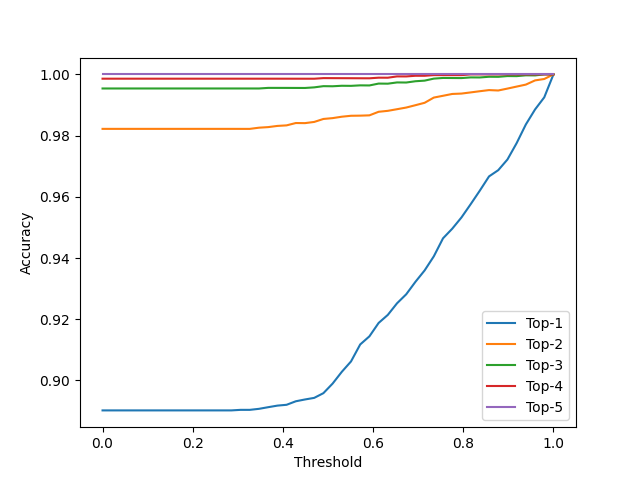
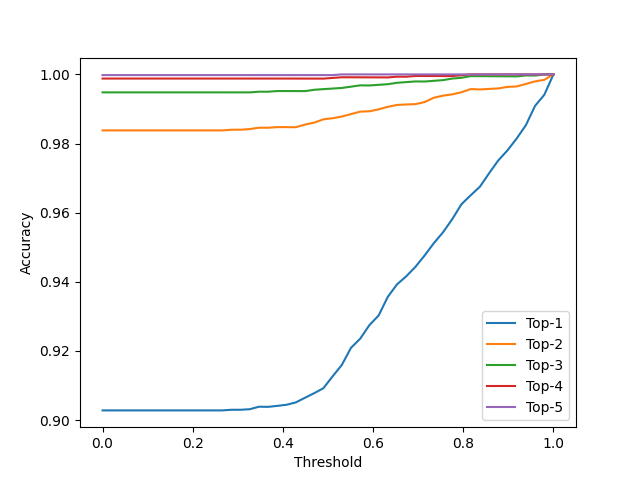
Split cifar data into known and unkown to make new train/test split

diff --git a/cifar.py b/cifar.py
@@ -22,16 +22,13 @@ np_config.enable_numpy_behavior()
 
 
 
-
-
-
 # Get CIFAR-100 dataset
 '''
 Train: 50000 samples
     labels: 0-99
     500 samples per label
 Test: 10000 samples
-    labels: 0-9
+    labels: 0-99
     around 100 samples per label
 
 Each image is 32x32 in color
@@ -42,16 +39,38 @@ train_x, train_y, test_x, test_y = load_keras_dataset(keras.datasets.cifar100)
 
 
 
-# # Pre-process MNIST dataset
-# '''
-# make grayscale
-# '''
-# train_x = train_x / 255.0
-# test_x = test_x / 255.0
 
 
 
+# Leave out half (50) of the classes during training. Classes 50-99 are designated as "unkown"
+known_x, known_y = [], []
+unknown_x, unknown_y = [], []
+for i in range(train_x.shape[0]):
+    if train_y[i] >= 50:
+        unknown_x.append(train_x[i])
+        unknown_y.append(train_y[i])
+    else:
+        known_x.append(train_x[i])
+        known_y.append(train_y[i])
 
+train_x = np.array(known_x)
+train_y = np.array(known_y)
+test_x = np.concatenate((test_x, np.array(unknown_x)), axis=0)
+test_y = np.concatenate((test_y, np.array(unknown_y)), axis=0)
+
+# Change labels of unkown classes to be negative numbers
+for i in range(len(test_y)):
+    if test_y[i] >= 50:
+        test_y[i] = -1
+"""
+New split:
+    Train: 25000 samples
+        labels: 0-49
+        500 samples per label
+    Test: 35000 samples
+        labels: 0-49 have 100 samples per label
+        label -1 has 30000 samples
+"""
 
 
 
@@ -63,64 +82,6 @@ exit()
 
 
 
-
-# Get Omniglot dataset (combine omniglot train and test into 1 omniglot dataset since they are all going to be unkown samples)
-'''
-32,460 samples in total
-1623 labels with 20 samples per label
-'''
-omniglot_train_x, omniglot_train_y = load_omniglot('train')
-omniglot_test_x, omniglot_test_y = load_omniglot('test')
-omniglot_x = omniglot_train_x + omniglot_test_x
-omniglot_y = omniglot_train_y + omniglot_test_y
-
-
-# Pre-process omniglot images
-'''
-resize to 28x28 (same size as mnist images)
-make make values be between 0 and 1 just like mnist was normalized
-flip pixels so that it's black background, white foreground
-add a little bit of gaussian filter to blur it
-'''
-omniglot_x = [(gaussian_filter(1.0 - (tf.image.resize(i, [28, 28])/255.0), sigma=0.5))[:, :, 0] for i in omniglot_x]
-
-# Change labels of unkown classes to be negative numbers
-for i in range(len(omniglot_y)):
-    omniglot_y[i] = -1
-
-
-
-
-
-
-
-
-
-
-
-
-
-
-
-
-
-
-
-
-# Make final train/test sets
-'''
-Train: 60000 samples
-    labels: 0-9
-    around 6000 samples per label
-Test: 42,460 samples
-    labels: -1623~9
-        labels -1623~-1 have 20 samples per label
-        labels 0~9 have approx 1000 samples per label 
-'''
-omniglot_x = np.array(omniglot_x)
-omniglot_y = np.array(omniglot_y)
-test_x = np.concatenate((test_x, omniglot_x), axis=0)
-test_y = np.concatenate((test_y, omniglot_y), axis=0)
 
 
 

diff --git a/fashion_mnist.py b/fashion_mnist.py
@@ -33,11 +33,8 @@ Original split:
 '''
 train_x, train_y, test_x, test_y = load_keras_dataset(keras.datasets.fashion_mnist)
 
-# Convert all to float types
-train_x = train_x.astype(float)
-train_y = train_y.astype(float)
-test_x = test_x.astype(float)
-test_y = test_y.astype(float)
+
+
 
 # Leave out 5 of the classes during training. Classes 5-9 are designated as "unkown"
 known_x, known_y = [], []
@@ -110,7 +107,3 @@ print("\nTesting model")
 
 threshold_to_test = np.linspace(0, 1, 50)
 perform_analysis(model, test_x, test_y, threshold_to_test, 'fashion_mnist', 0.8)
-'''
-The confusion matrix shows that class 4 is hardest to predict: Coat
-It confuses class 4 with class 2, which is Pullover
-'''
